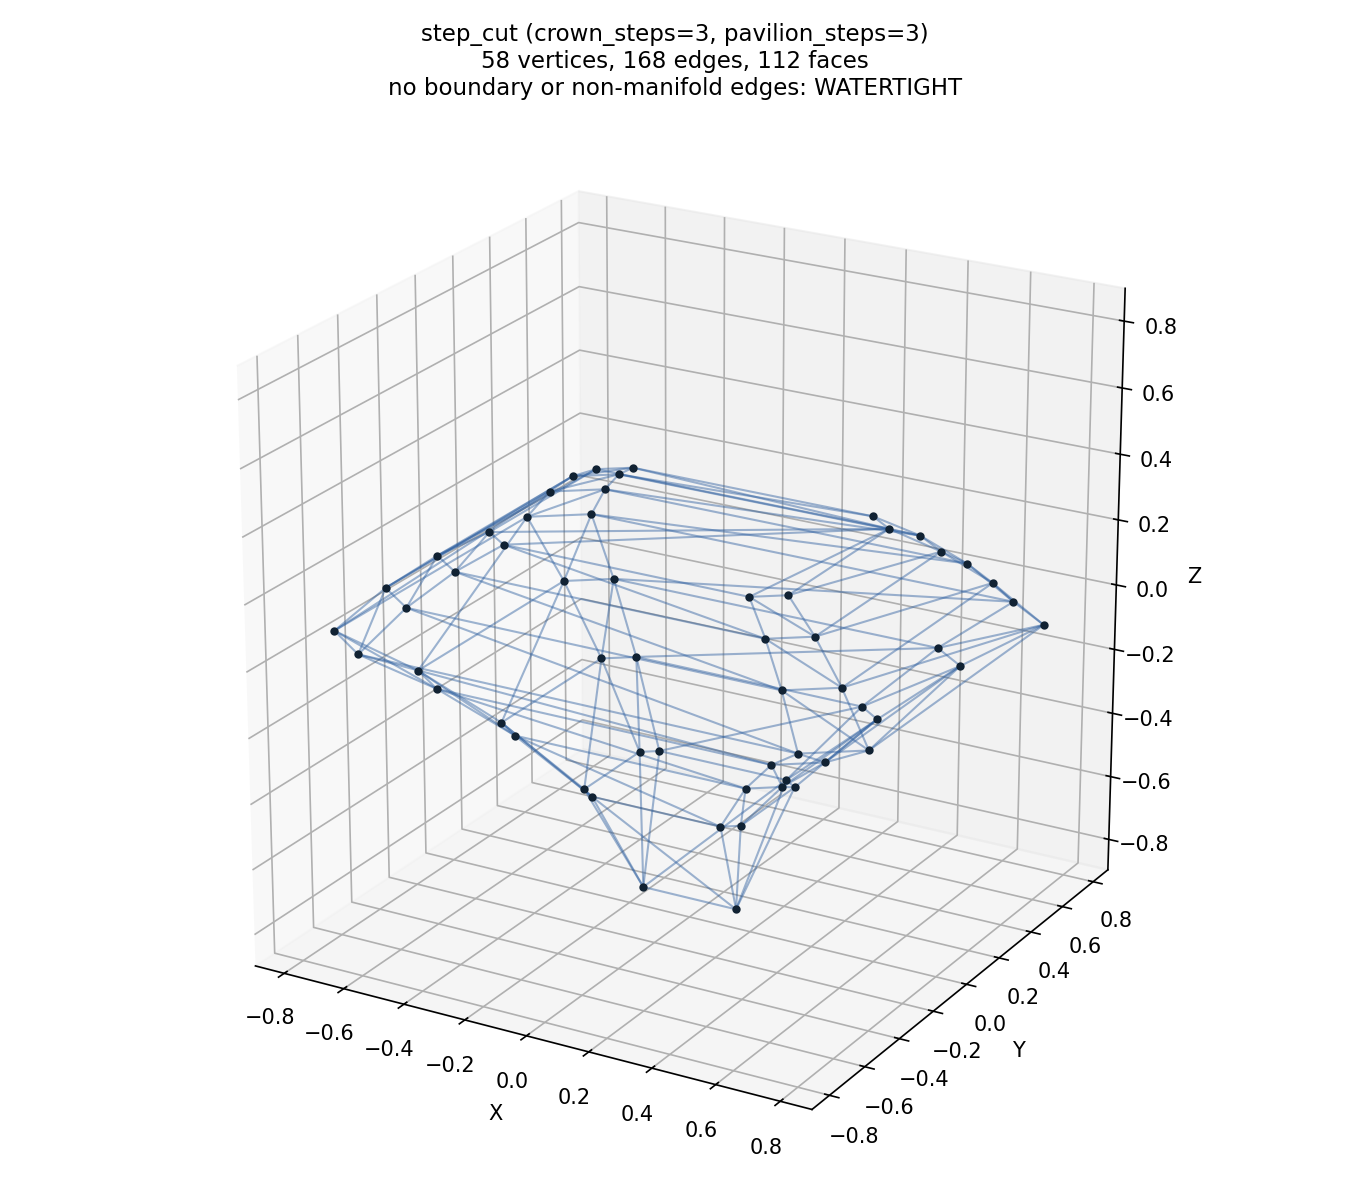
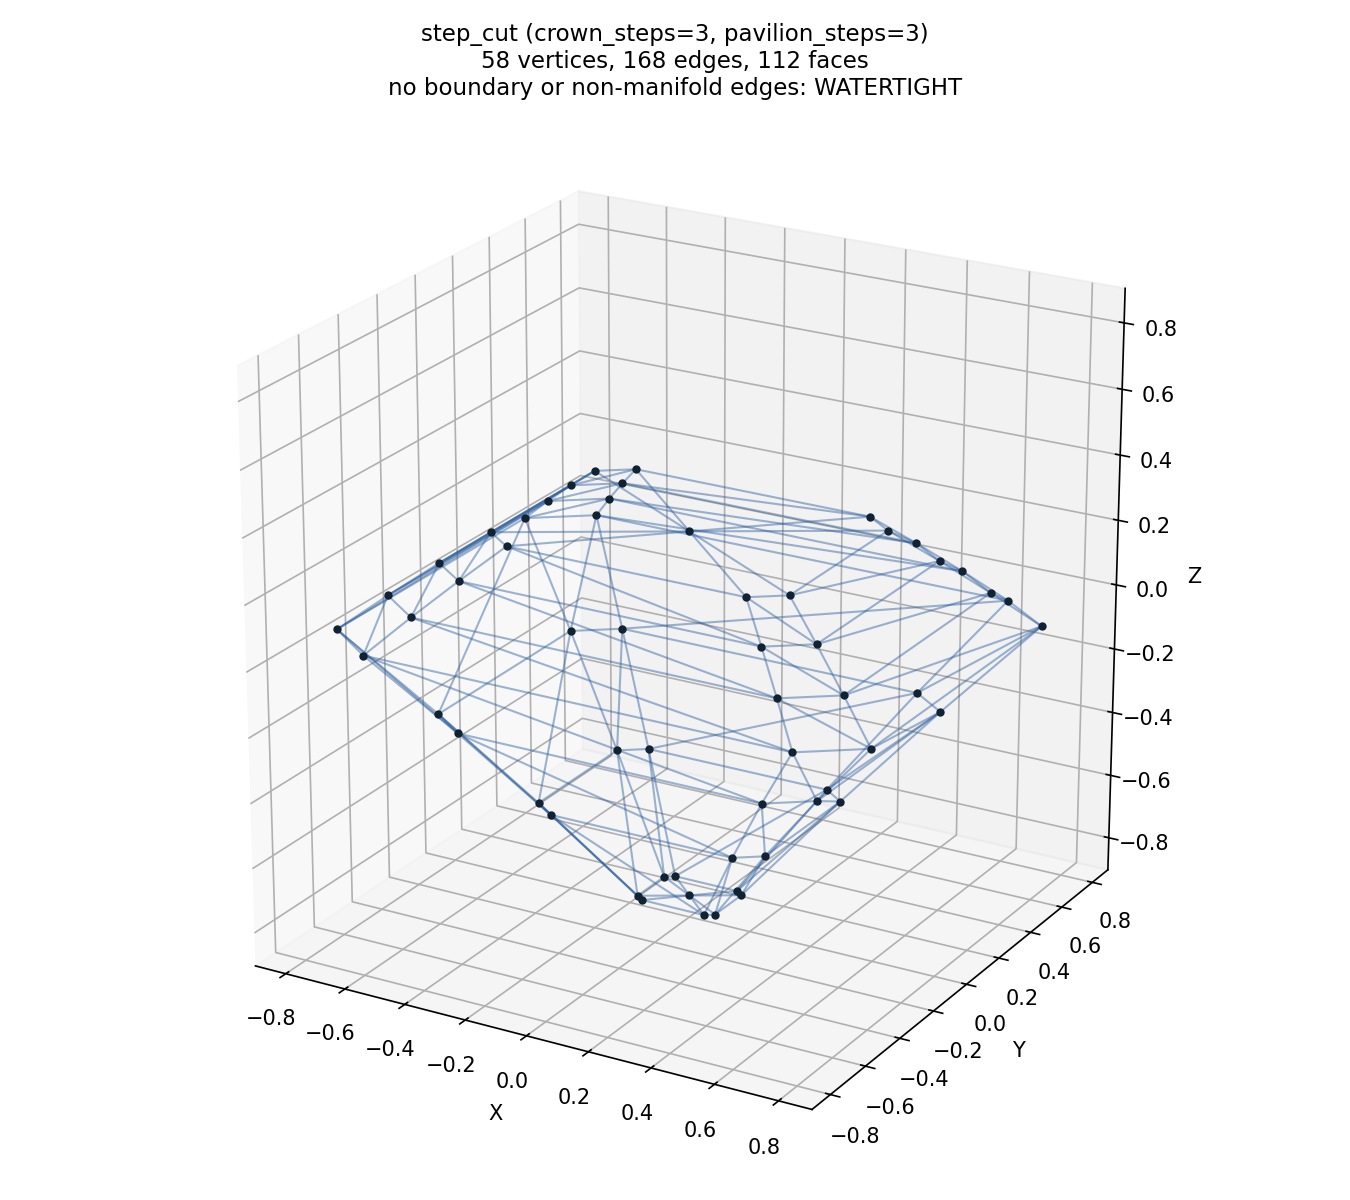
Correct the step cut to the trade diagram: flat culet, straight profile
Two departures from the reference diagram, both fixed.

The pavilion ended in a keel line. The diagram labels a CULET, drawn flat and
with width in side view and as a small facet in bottom view, so the pavilion
now tapers through its steps to a flat culet ring capped by a centre-vertex
fan -- the same arrangement make_round_brilliant uses for culet_radius. Vertex
and face counts are unchanged, because swapping the two-vertex ridge and its
ten-triangle closure for a culet ring and two eight-triangle caps happens to
balance exactly. crown+pavilion == 3 still lands on 34 vertices and 64 faces,
so the transfer experiment's head-shape contract survives.

The default step_angle_spread of 0.35 fanned the pavilion angles from 26.5 to
55 degrees and made the silhouette funnel. On a real step cut the terraces
show as lines on the face, not as bends in the profile. Measured across
spreads: 0.00 gives a straight profile but collapses to 18 distinct facet
planes, a plain frustum; 0.06 keeps 50 distinct planes with a straight profile.
Default is now 0.06, and corner_frac is 0.20 to match the diagram's chamfers.

Renders started against the keel mesh were stopped and discarded rather than
finished, since that geometry is superseded.

Claude-Session: https://claude.ai/code/session_01YRWGcvcjqXQB67Fun1dGXH

diff --git a/ground_truth/step_geometry.py b/ground_truth/step_geometry.py
@@ -1,21 +1,28 @@
 """Step cut (emerald cut) geometry, matching make_round_brilliant's conventions.
 
+Built to the standard trade diagram: an octagonal outline, concentric
+rectangular step facets on both crown and pavilion, and a small flat CULET
+facet at the bottom.
+
 A step cut differs from a brilliant in two structural ways, and both matter to
 a transport model rather than only to the eye.
 
 The outline is an octagon -- a rectangle with chamfered corners -- instead of a
-circle or a teardrop, so the stone has four long parallel facet runs rather
-than a ring of small triangular facets.
+circle or a teardrop, so the stone has four long parallel facet runs and four
+corner runs rather than a ring of small triangular facets.
 
-The pavilion converges to a KEEL LINE, not to a point. Every other generator
-here ends the pavilion at a single apex, so the closure below the last ring is
-the one piece of topology a step cut cannot borrow from them: eight ring
-vertices reduce to a two-vertex ridge, six triangles and two quads.
-
-Facets are arranged in concentric steps. Real step cuts vary the angle from one
-step to the next -- steepest at the girdle on the crown, steepest at the keel on
+The facets are concentric terraces. Real step cuts vary the angle from one step
+to the next -- steepest at the girdle on the crown, steepest at the culet on
 the pavilion -- and without that variation adjacent bands would be coplanar and
-the cut would read as a plain frustum. `step_angle_spread` controls it.
+the cut would read as a plain frustum. `step_angle_spread` controls it, and
+the default is deliberately small: on a real step cut the terraces show as
+lines on the face, not as bends in the silhouette. At 0.06 the mesh keeps 50
+distinct facet planes with a straight-sided profile; at 0 it collapses to 18
+and becomes a frustum, and at 0.35 the pavilion visibly funnels.
+
+The pavilion tapers through its steps to a flat culet rather than to a point,
+which is the same arrangement `make_round_brilliant` uses for `culet_radius`:
+a small ring capped by a fan around a centre vertex, lying in one plane.
 
 Overall proportions are held to the same envelope as the other cuts: the same
 girdle radius, the same nominal crown height and pavilion depth from
@@ -25,7 +32,7 @@ which is what makes a cross-cut comparison a controlled one.
 import numpy as np
 
 
-def step_outline(length_ratio=1.35, corner_frac=0.18):
+def step_outline(length_ratio=1.35, corner_frac=0.20):
     """Octagonal girdle outline, normalised so the maximum radius is 1.
 
     A rectangle of half-extents (length_ratio, 1) with each corner chamfered by
@@ -68,9 +75,9 @@ def _cumulative(scales, angles, mean_radius, target):
 
 
 def make_step_cut(girdle_radius=1.0, crown_angle_deg=34.5, pavilion_angle_deg=40.75,
-                  table_frac=0.56, length_ratio=1.35, corner_frac=0.18,
-                  crown_steps=3, pavilion_steps=3, keel_ring_frac=0.30,
-                  keel_length_frac=0.18, step_angle_spread=0.35):
+                  table_frac=0.56, length_ratio=1.35, corner_frac=0.20,
+                  crown_steps=3, pavilion_steps=3, culet_frac=0.15,
+                  step_angle_spread=0.06):
     """Watertight step cut as (vertices, faces).
 
     `crown_steps` and `pavilion_steps` set the tessellation the way
@@ -78,13 +85,18 @@ def make_step_cut(girdle_radius=1.0, crown_angle_deg=34.5, pavilion_angle_deg=40
     8*(crown_steps+pavilion_steps+1)+2 vertices and
     16*(crown_steps+pavilion_steps)+16 faces, so crown_steps+pavilion_steps == 3
     reproduces the round brilliant's 34 vertices and 64 faces exactly.
+
+    `culet_frac` is the culet's width as a fraction of the girdle outline. It
+    plays the role `culet_radius` plays for the round cut, but it cannot be
+    zero here: collapsing the bottom ring to a point would change the face
+    count and break the tessellation contract above.
     """
     if crown_steps < 1 or pavilion_steps < 1:
         raise ValueError('crown_steps and pavilion_steps must be at least one')
     if not 0. < table_frac < 1.:
         raise ValueError('table_frac must lie strictly between zero and one')
-    if not 0. < keel_ring_frac < 1.:
-        raise ValueError('keel_ring_frac must lie strictly between zero and one')
+    if not 0. < culet_frac < 1.:
+        raise ValueError('culet_frac must lie strictly between zero and one')
     if step_angle_spread < 0. or step_angle_spread >= 1.:
         raise ValueError('step_angle_spread must lie in [0, 1)')
 
@@ -101,11 +113,10 @@ def make_step_cut(girdle_radius=1.0, crown_angle_deg=34.5, pavilion_angle_deg=40
                                 _band_angles(crown_angle_deg, crown_steps,
                                              step_angle_spread, True),
                                 mean_radius, crown_height)
-    # Pavilion: girdle down through the rings and on to the keel, which is the
-    # scale-zero end of the same run, so the keel drop obeys the progression.
-    pavilion_scales = np.concatenate([np.linspace(1., keel_ring_frac, pavilion_steps+1), [0.]])
+    # Pavilion: girdle down to the culet ring, steepest step at the culet.
+    pavilion_scales = np.linspace(1., culet_frac, pavilion_steps+1)
     pavilion_heights = _cumulative(pavilion_scales,
-                                   _band_angles(pavilion_angle_deg, pavilion_steps+1,
+                                   _band_angles(pavilion_angle_deg, pavilion_steps,
                                                 step_angle_spread, False),
                                    mean_radius, pavilion_depth)
 
@@ -113,7 +124,8 @@ def make_step_cut(girdle_radius=1.0, crown_angle_deg=34.5, pavilion_angle_deg=40
         return np.column_stack([centroid+scale*(outline-centroid),
                                 np.full(sides, height)])
 
-    # Rings run top to bottom: table, crown intermediates, girdle, pavilion.
+    # Rings run top to bottom: table, crown intermediates, girdle, pavilion,
+    # with the last pavilion ring being the culet.
     rings = [ring(table_frac, crown_height)]
     for k in range(crown_steps-1, 0, -1):
         rings.append(ring(crown_scales[k], crown_heights[k-1]))
@@ -121,37 +133,25 @@ def make_step_cut(girdle_radius=1.0, crown_angle_deg=34.5, pavilion_angle_deg=40
     for i in range(pavilion_steps):
         rings.append(ring(pavilion_scales[i+1], -pavilion_heights[i]))
 
-    extent = float(np.abs(outline[:, 0]).max())
-    keel_half = keel_length_frac*extent
-    if keel_half >= keel_ring_frac*extent:
-        raise ValueError('keel_length_frac must be smaller than keel_ring_frac')
-    keel = np.array([[keel_half, centroid[1], -pavilion_depth],
-                     [-keel_half, centroid[1], -pavilion_depth]])
-
-    vertices = np.vstack(rings+[keel]).astype(np.float32)
-    last = (len(rings)-1)*sides
-    plus, minus = len(rings)*sides, len(rings)*sides+1
+    # Flat caps get a centre vertex so table and culet are fans rather than
+    # polygon triangulations, matching make_round_brilliant.
+    table_centre = np.array([[centroid[0], centroid[1], crown_height]])
+    culet_centre = np.array([[centroid[0], centroid[1], -pavilion_depth]])
+    vertices = np.vstack(rings+[table_centre, culet_centre]).astype(np.float32)
+    culet_base = (len(rings)-1)*sides
+    table_apex, culet_apex = len(rings)*sides, len(rings)*sides+1
 
     faces = []
-    for i in range(1, sides-1):                     # table cap, fanned
-        faces.append([0, i, i+1])
+    for i in range(sides):                          # table cap
+        faces.append([table_apex, i, (i+1) % sides])
     for r in range(len(rings)-1):                   # step bands
         upper, lower = r*sides, (r+1)*sides
         for i in range(sides):
             j = (i+1) % sides
             faces.append([upper+i, upper+j, lower+j])
             faces.append([upper+i, lower+j, lower+i])
-    # Keel closure: each ring vertex belongs to the nearer keel end, so an edge
-    # whose ends agree spans a triangle and an edge that straddles spans a quad.
-    side = [plus if point[0] >= centroid[0] else minus for point in outline]
-    for i in range(sides):
-        j = (i+1) % sides
-        a, b = last+i, last+j
-        if side[i] == side[j]:
-            faces.append([a, b, side[i]])
-        else:
-            faces.append([a, b, side[j]])
-            faces.append([a, side[j], side[i]])
+    for i in range(sides):                          # culet cap
+        faces.append([culet_apex, culet_base+i, culet_base+(i+1) % sides])
     faces = np.array(faces, dtype=np.uint32)
 
     centre = vertices.mean(axis=0)

diff --git a/config/parameters.py b/config/parameters.py
@@ -63,12 +63,11 @@ STEP_DEFAULTS = {
     "pavilion_angle_deg": 40.75,
     "table_frac": 0.56,
     "length_ratio": 1.35,
-    "corner_frac": 0.18,
+    "corner_frac": 0.20,
     "crown_steps": 3,
     "pavilion_steps": 3,
-    "keel_ring_frac": 0.30,
-    "keel_length_frac": 0.18,
-    "step_angle_spread": 0.35,
+    "culet_frac": 0.15,
+    "step_angle_spread": 0.06,
     "int_ior": 2.419,
     "ext_ior": 1.000277,
 }
